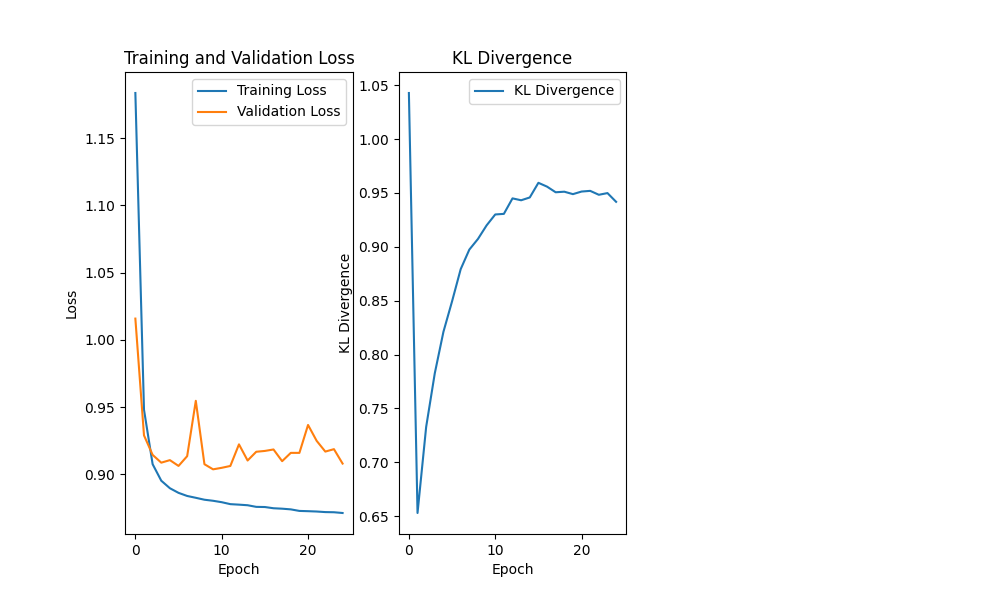
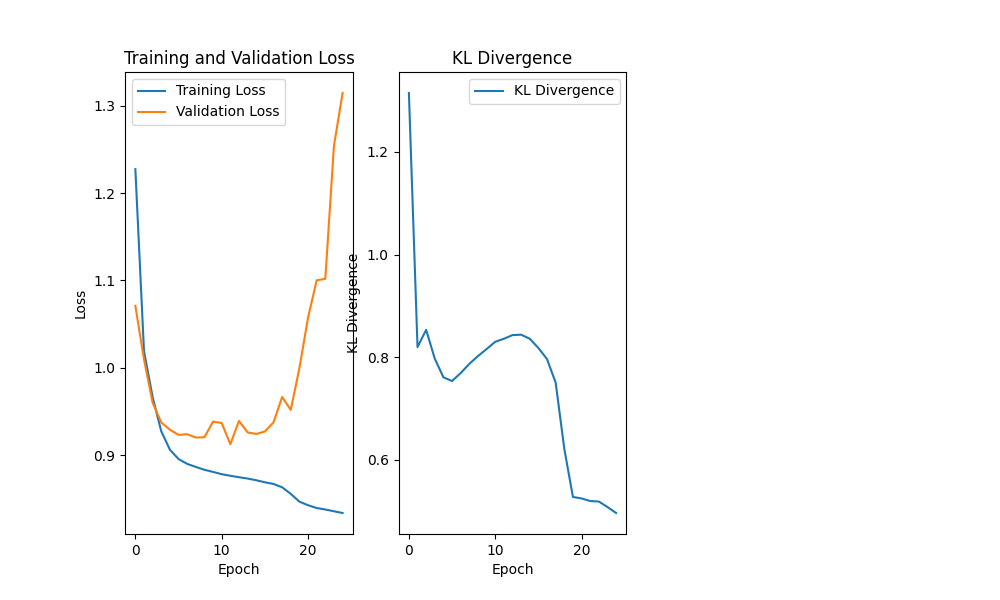
testing different hyperparameters

diff --git a/ANN_hyperparameters_testing.py b/ANN_hyperparameters_testing.py
@@ -13,7 +13,7 @@ from sklearn.model_selection import ParameterGrid
 def main():
     # Create parser
     parser = argparse.ArgumentParser(description='ANN for Galaxy Morphology Classification')
-    parser.add_argument('--epochs', type=int, default=10, help='Number of epochs for training')
+    parser.add_argument('--epochs', type=int, default=15, help='Number of epochs for training')
     parser.add_argument('--hidden_size_1', type=int, default=12, help='Number of neurons in the first hidden layer')
     parser.add_argument('--hidden_size_2', type=int, default=24, help='Number of neurons in the second hidden layer')
     parser.add_argument('--hidden_size_3', type=int, default=16, help='Number of neurons in the third hidden layer')
@@ -96,12 +96,12 @@ def main():
 
     # Define hyperparameters
     param_grid = {
-        # 'hidden_size_1': [5, 10, 15, 20, 25, 30, 35, 40, 45, 50],
-        # 'hidden_size_2': [5, 10, 15, 20, 25, 30, 35, 40, 45, 50],
-        # 'hidden_size_3': [5, 10, 15, 20, 25, 30, 35, 40, 45, 50],
-        'lr': [0.0001, 0.0003, 0.0005, 0.00005],
-        'wd': [0.0001, 0.0003],
-        'batch_size': [32, 64]
+        'hidden_size_1': [12],
+        'hidden_size_2': [24],
+        'hidden_size_3': [16],
+        'lr': [0.0004, 0.0006],
+        'wd': [0.0003, 0.0004],
+        'batch_size': [25, 30]
     }
 
     grid = ParameterGrid(param_grid)
@@ -113,9 +113,9 @@ def main():
         print(f'Running configuration {i+1} of {len(grid)}: {params}')
 
         # Update the args with the current parameters
-        # hidden_size1 = params['hidden_size_1']
-        # hidden_size2 = params['hidden_size_2']
-        # hidden_size3 = params['hidden_size_3']
+        hidden_size1 = params['hidden_size_1']
+        hidden_size2 = params['hidden_size_2']
+        hidden_size3 = params['hidden_size_3']
         args.lr = params['lr']
         args.wd = params['wd']
         args.batch_size = params['batch_size']
@@ -124,7 +124,7 @@ def main():
     
 
         # Create the neural network, loss function, and optimizer
-        model = NeuralNetwork(input_size, 24, 24, 12, output_size)
+        model = NeuralNetwork(input_size, hidden_size1, hidden_size2, hidden_size3, output_size)
         criterion = nn.CrossEntropyLoss()
         optimizer = optim.Adam(model.parameters(), lr=args.lr, weight_decay=args.wd)
 

diff --git a/ANN_4_main.py b/ANN_4_main.py
@@ -7,7 +7,6 @@ import pandas as pd
 import matplotlib.pyplot as plt
 import os
 from sklearn.metrics import confusion_matrix, precision_score, recall_score, f1_score
-import argparse
 
 def ANN(epochs, hidden_1, hidden_2, hidden_3, lr, wd, batch_size, verbose):
 
